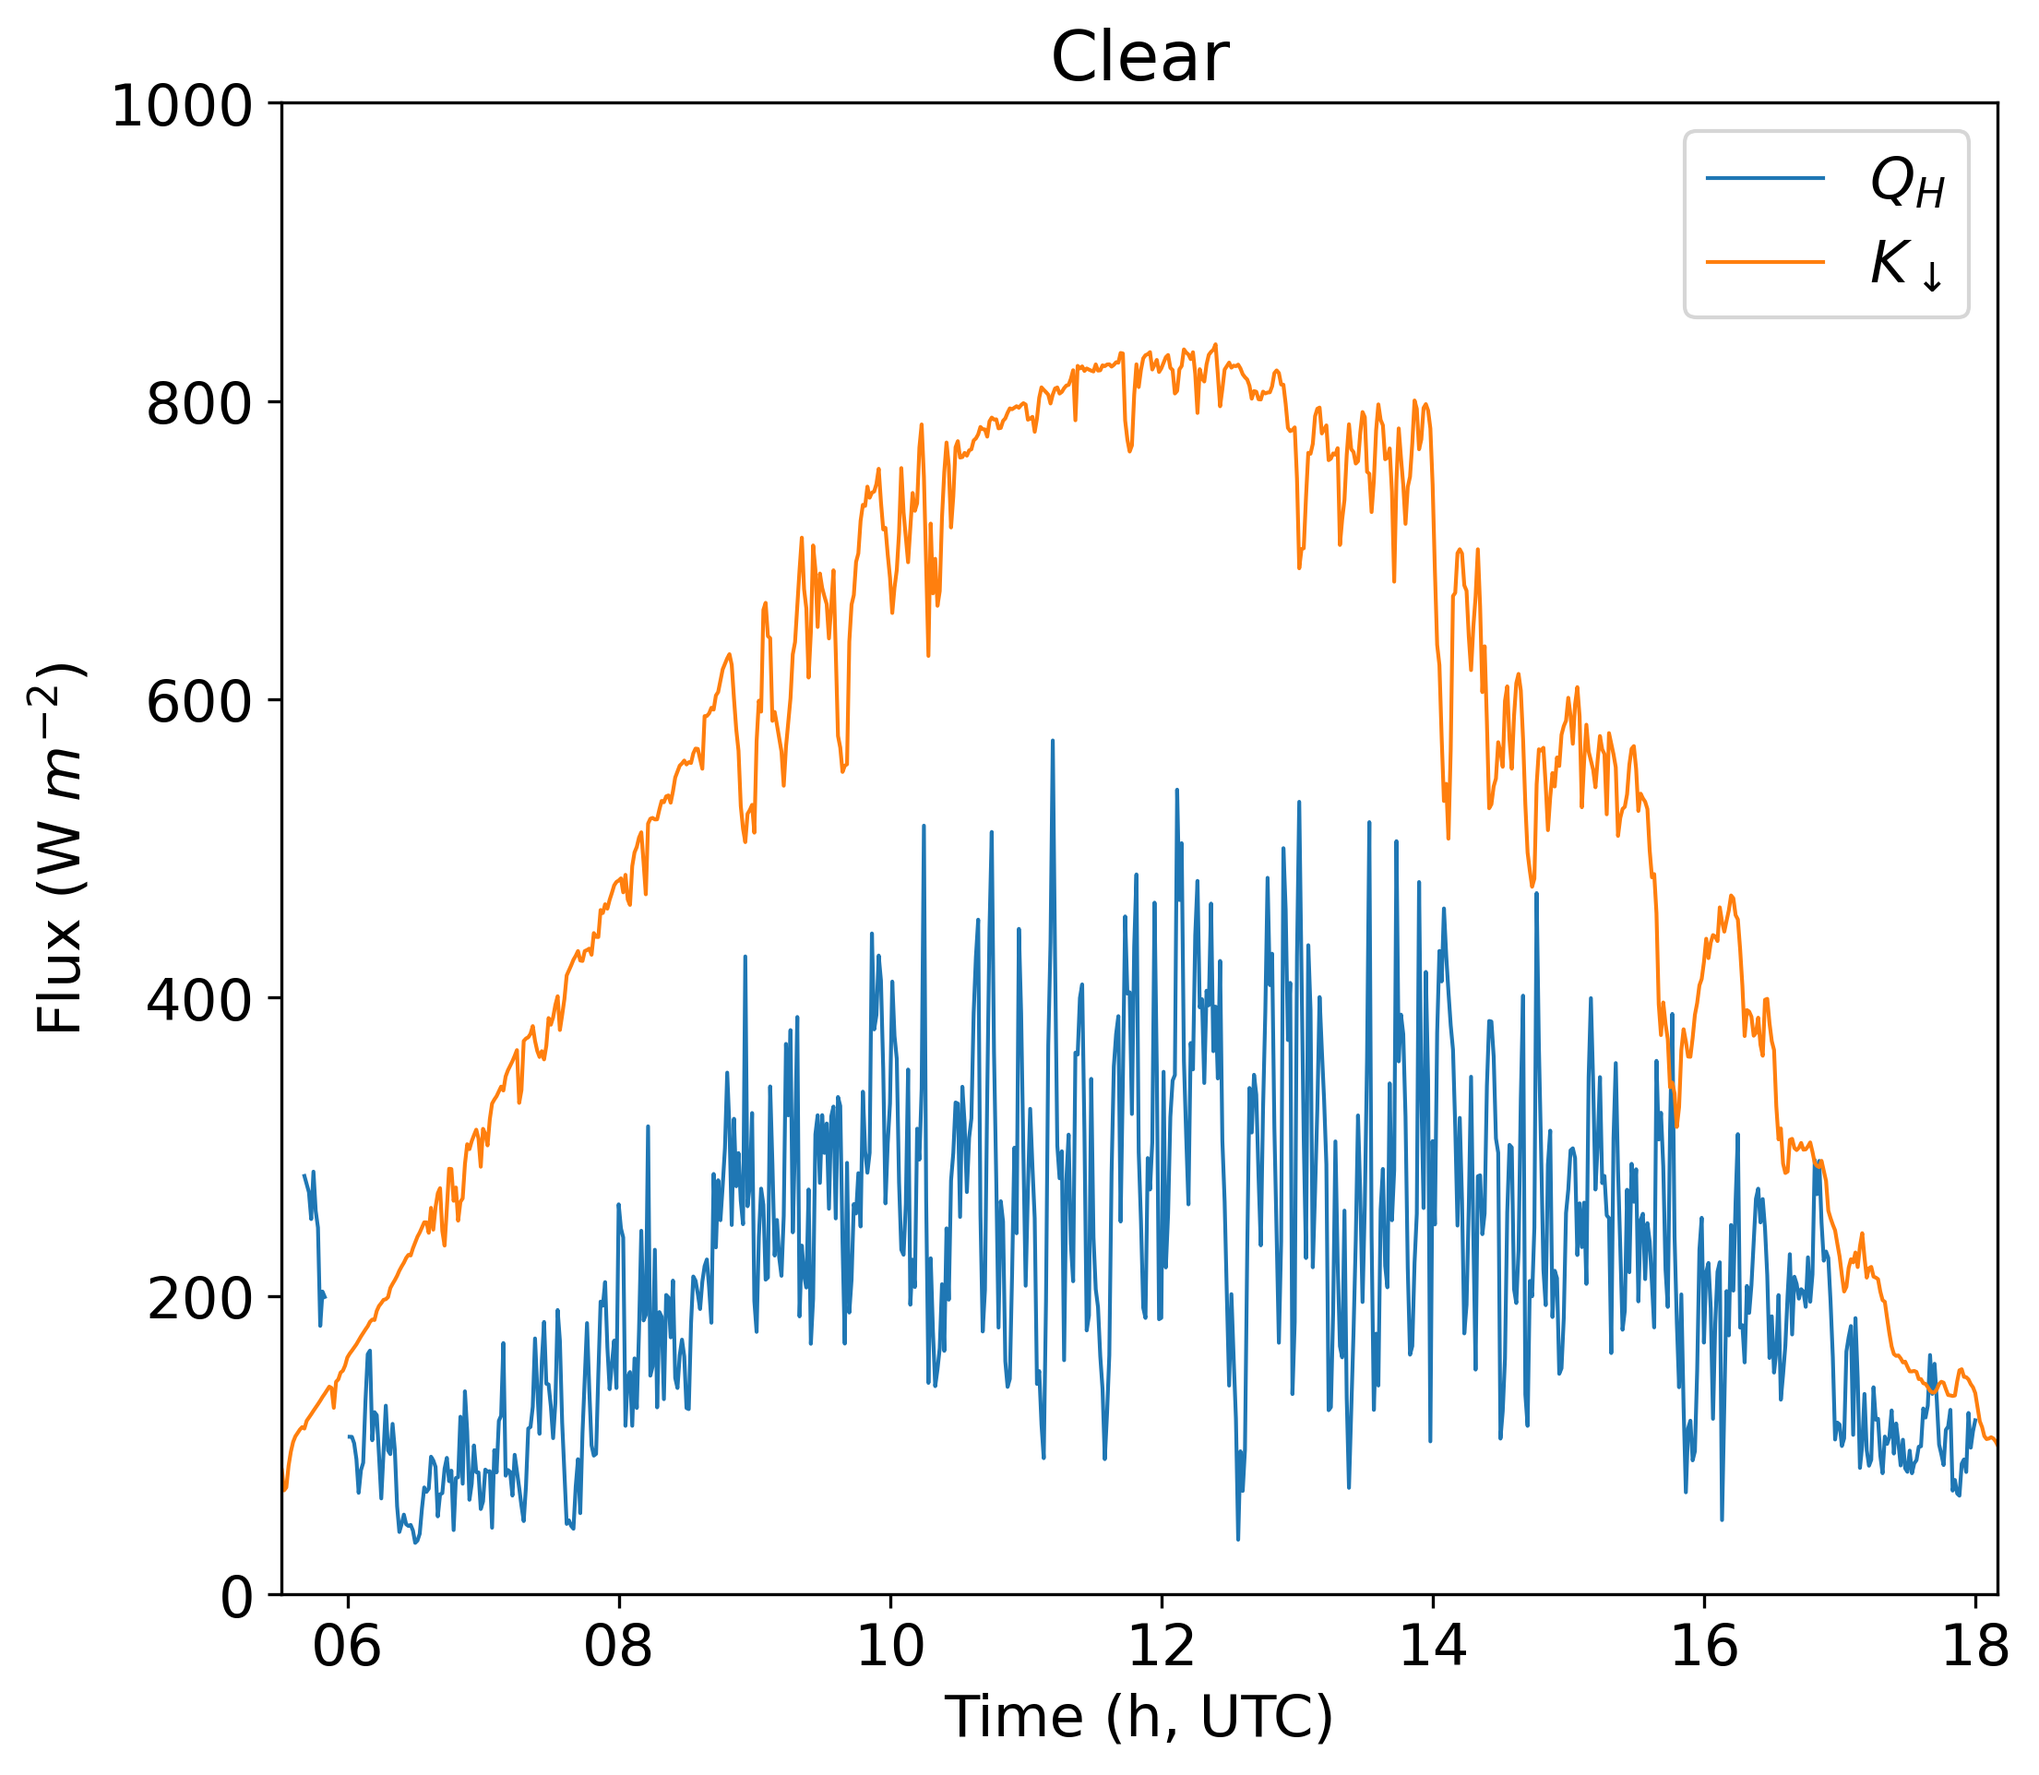
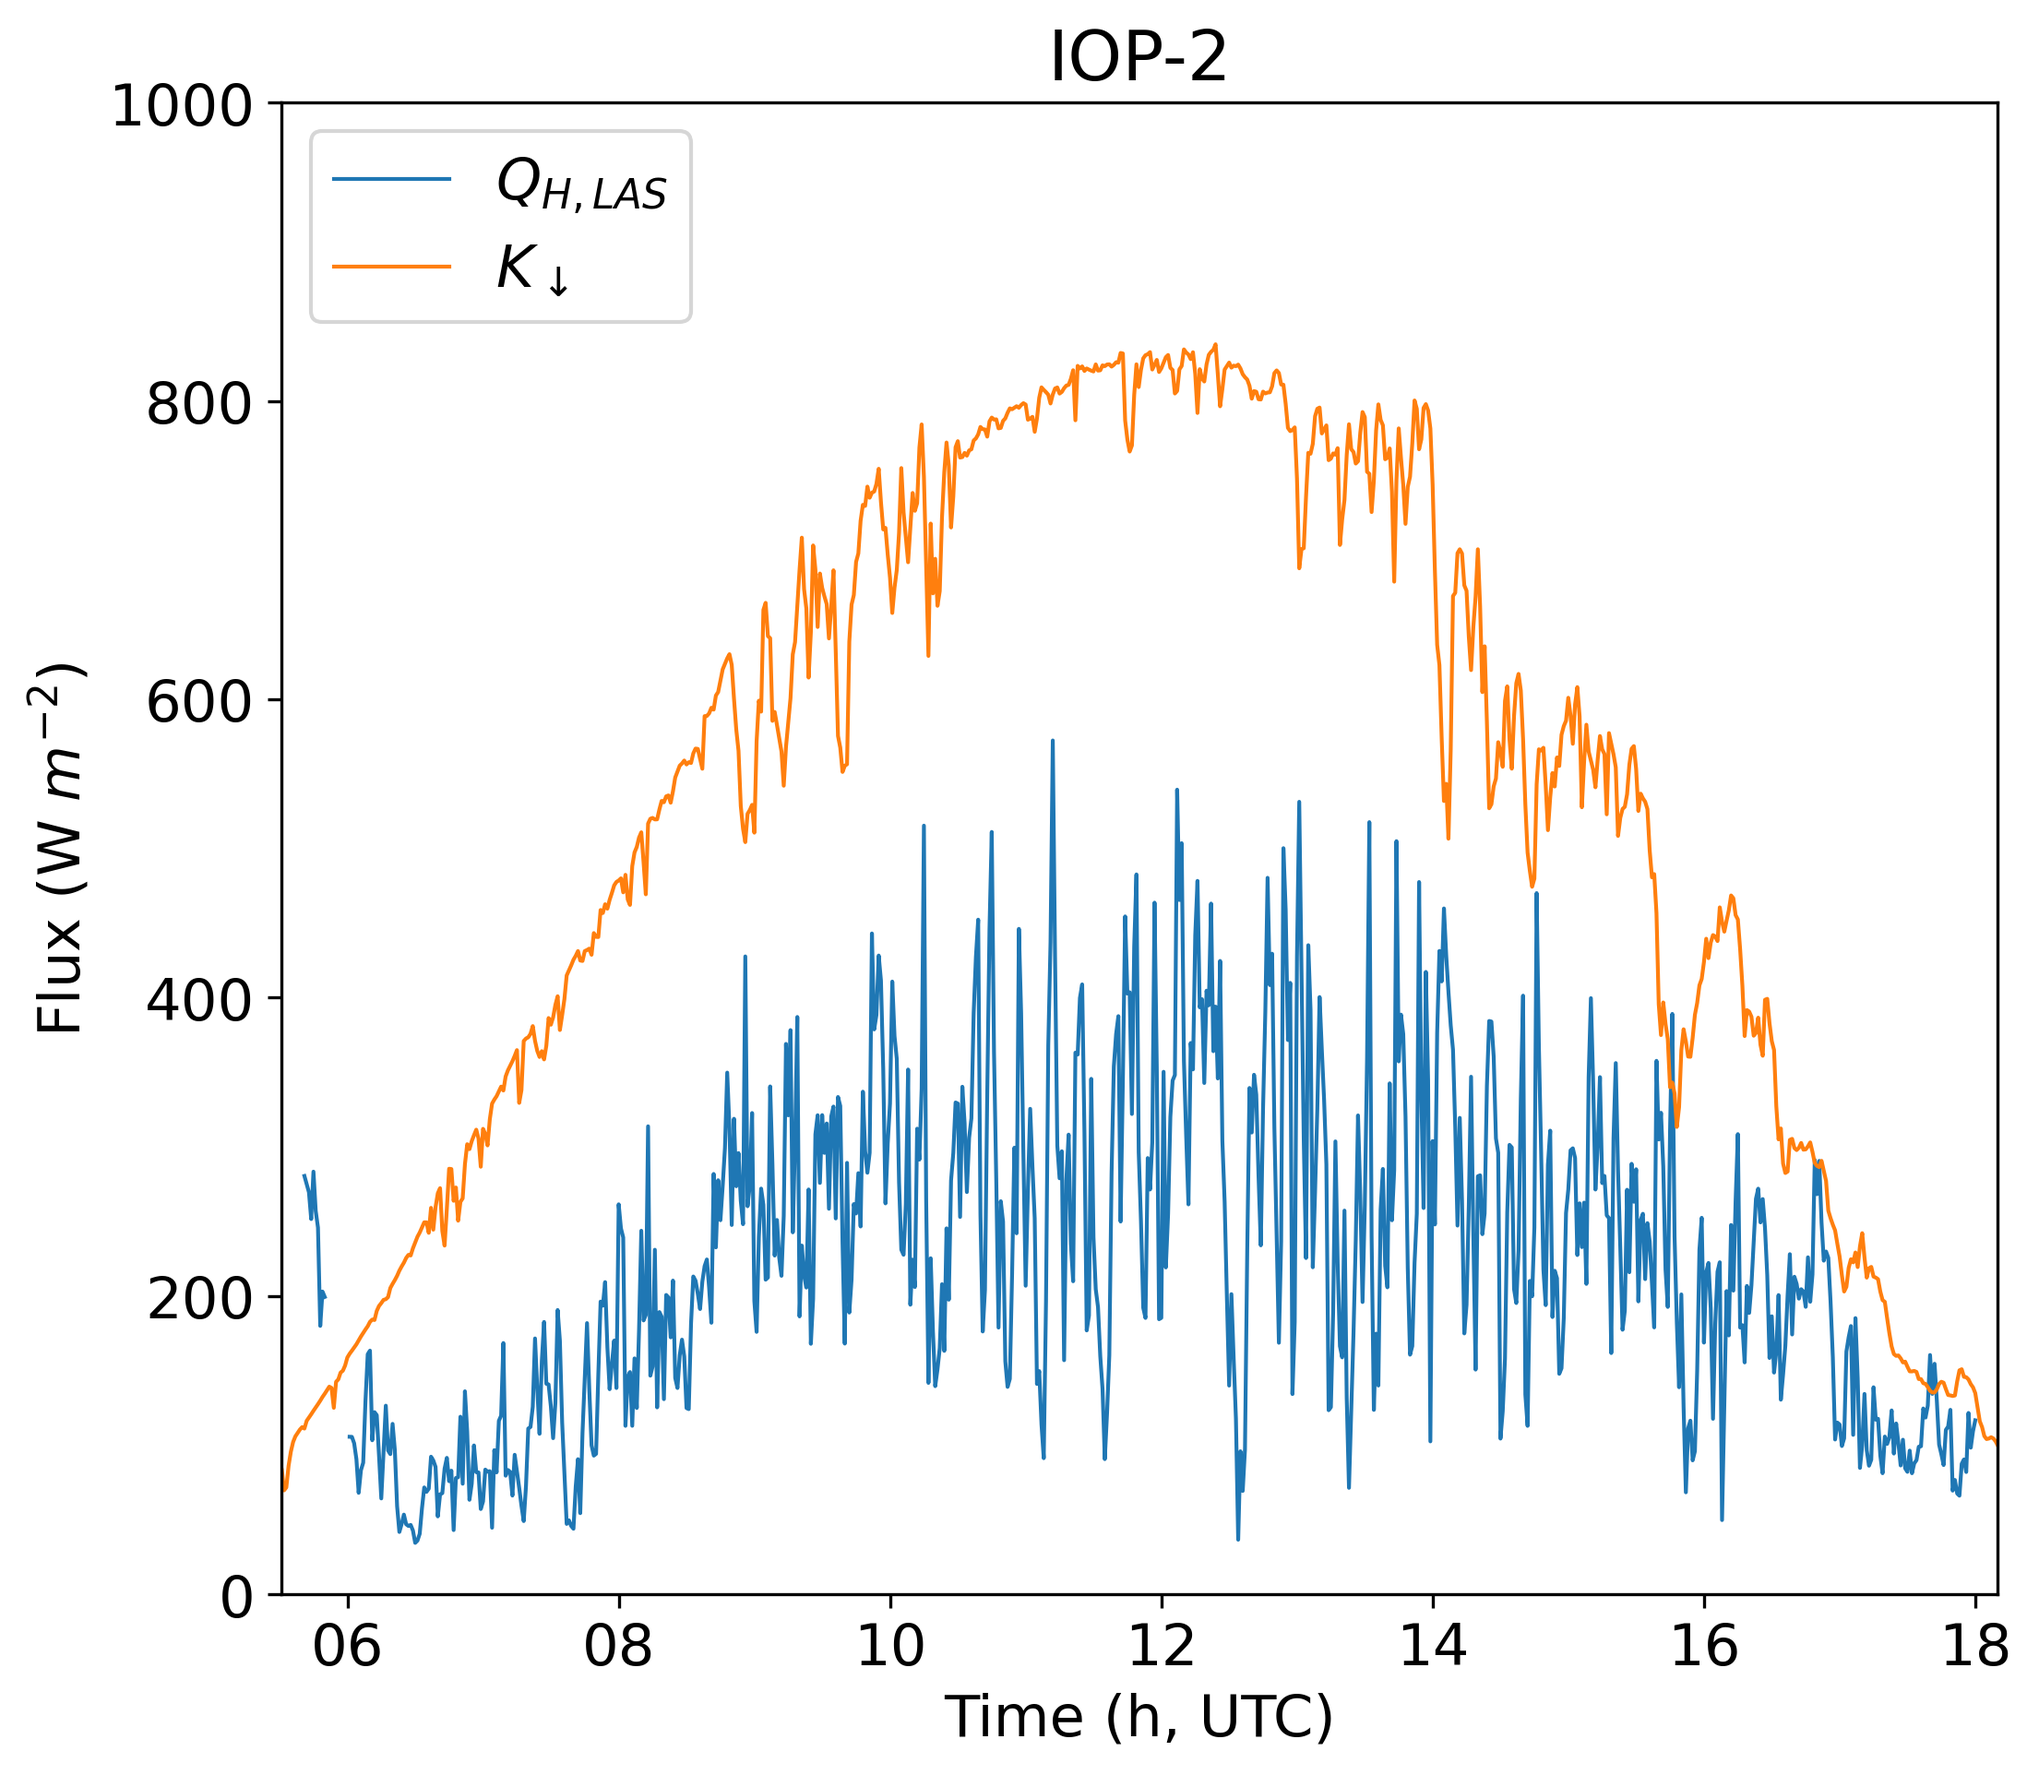
update names and notation

diff --git a/scint_plots/line_time_series/line_time_series_funs.py b/scint_plots/line_time_series/line_time_series_funs.py
@@ -19,7 +19,7 @@ def times_series_line_QH_KDOWN(df, pair_id, model_df=False):
     fig = plt.figure(figsize=(8, 7))
     ax = plt.subplot(1, 1, 1)
 
-    ax.plot(df['QH'], label='$Q_{H}$', linewidth=1)
+    ax.plot(df['QH'], label='$Q_{H,LAS}$', linewidth=1)
     ax.plot(df['kdown'], label='$K_{\downarrow}$', linewidth=1)
 
     if type(model_df) == pd.core.frame.Series or type(model_df) == pd.core.frame.DataFrame:
@@ -47,11 +47,11 @@ def times_series_line_QH_KDOWN(df, pair_id, model_df=False):
     ax.xaxis.set_major_formatter(DateFormatter('%H'))
 
     if df.index[0].strftime('%Y%j') == '2016126':
-        plt.title('Clear')
+        plt.title('IOP-2')
         ax.set_ylim(0, 1000)
 
     elif df.index[0].strftime('%Y%j') == '2016123':
-        plt.title('Cloudy')
+        plt.title('IOP-1')
         ax.set_ylim(0, 1000)
 
     else:
